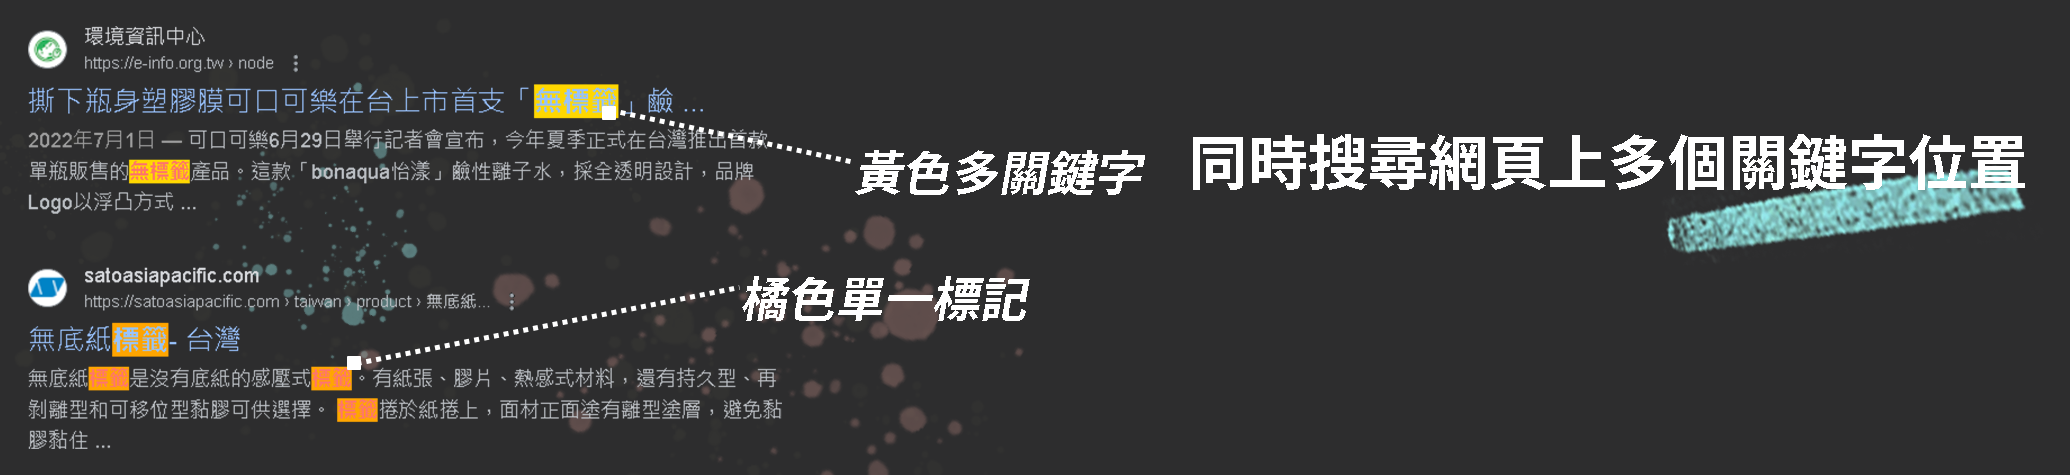
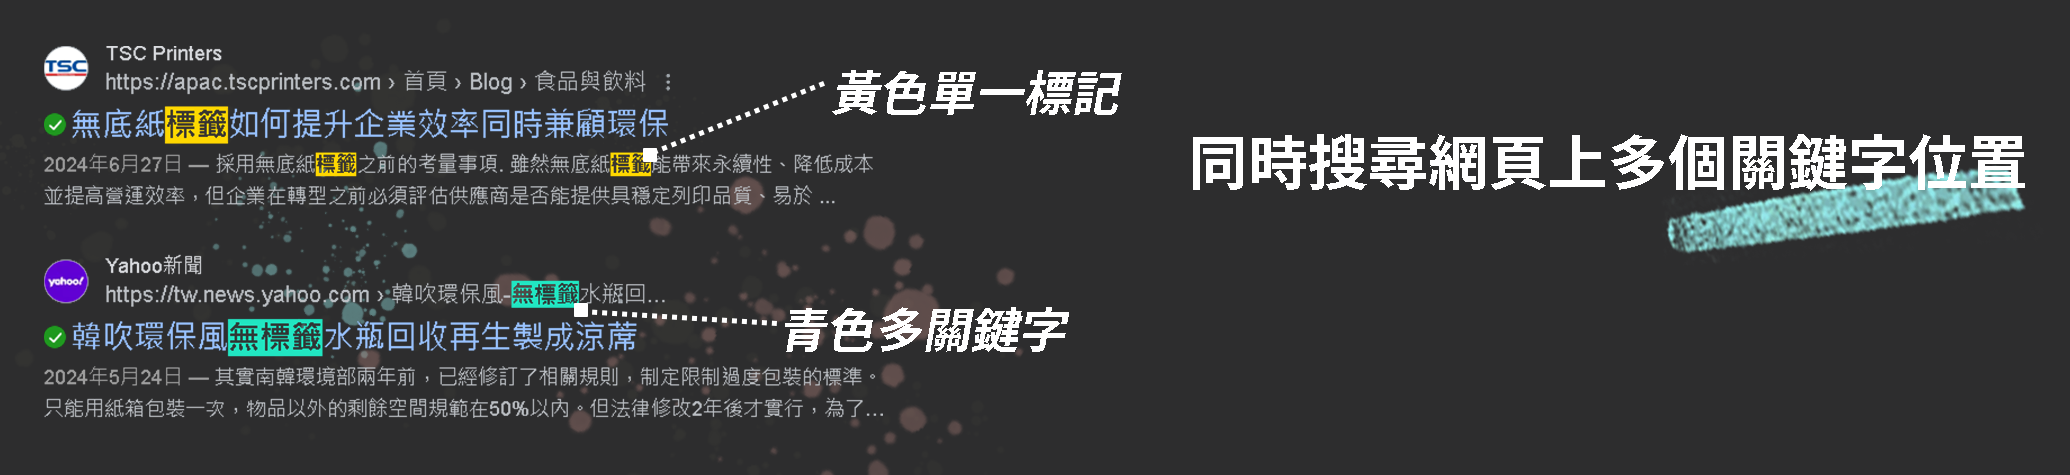
rel: small adjustments
1. 更換 README.md 中關於搜尋網頁上多個關鍵字的介紹圖片
2. 修正彈出式功能列引發的錯誤

Changed region(s): [[0.0, 0.0589, 0.5565, 0.4421], [0.0, 0.5305, 0.5256, 0.9432], [0.371, 0.1474, 0.5565, 0.2653]]

diff --git a/popup/popup.js b/popup/popup.js
@@ -100,6 +100,8 @@ function newkeyword_submit_button_click(event){
 	const newkeyword = newkeyword_Input.value;
 	
 	if (newkeyword != ""){
+		const newkeyword_Button = document.getElementById("popup-new-keyword");
+		
 		sendNewKeywordquest(newkeyword);
 		
 		const popup_bar = document.getElementById("popup-bar");
